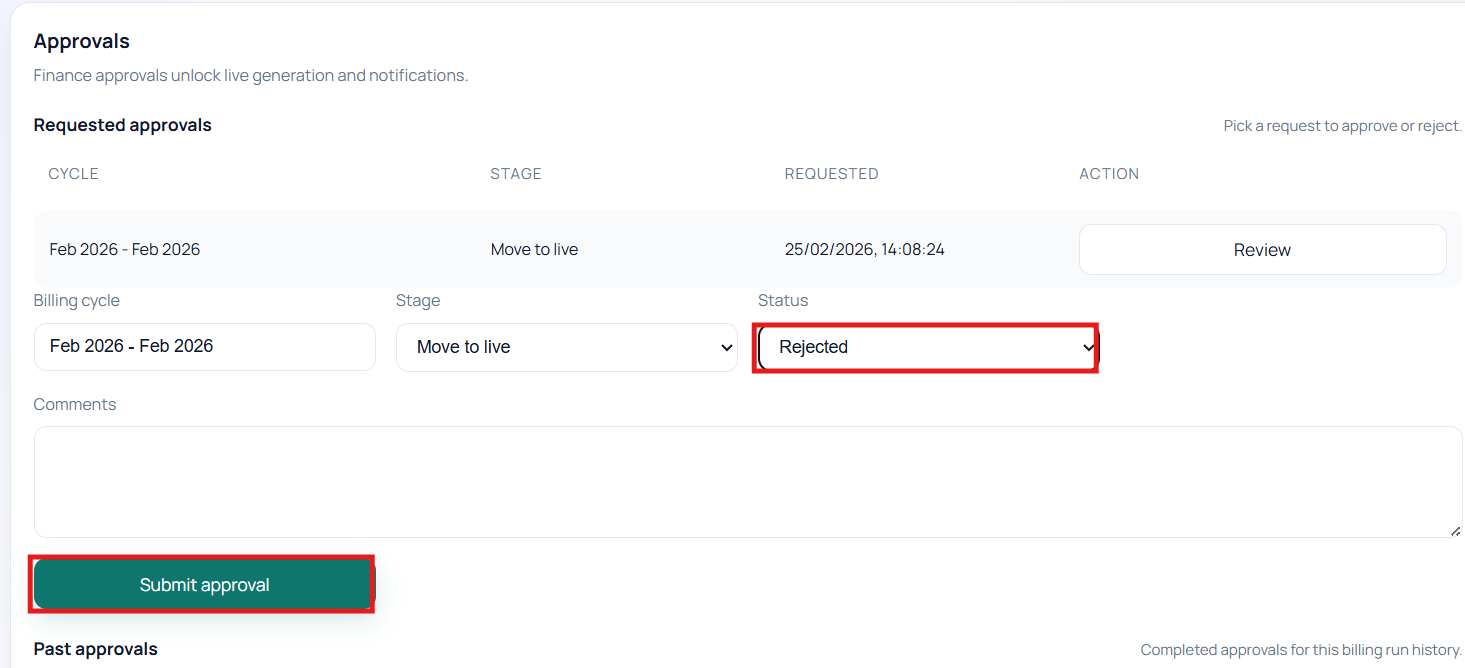
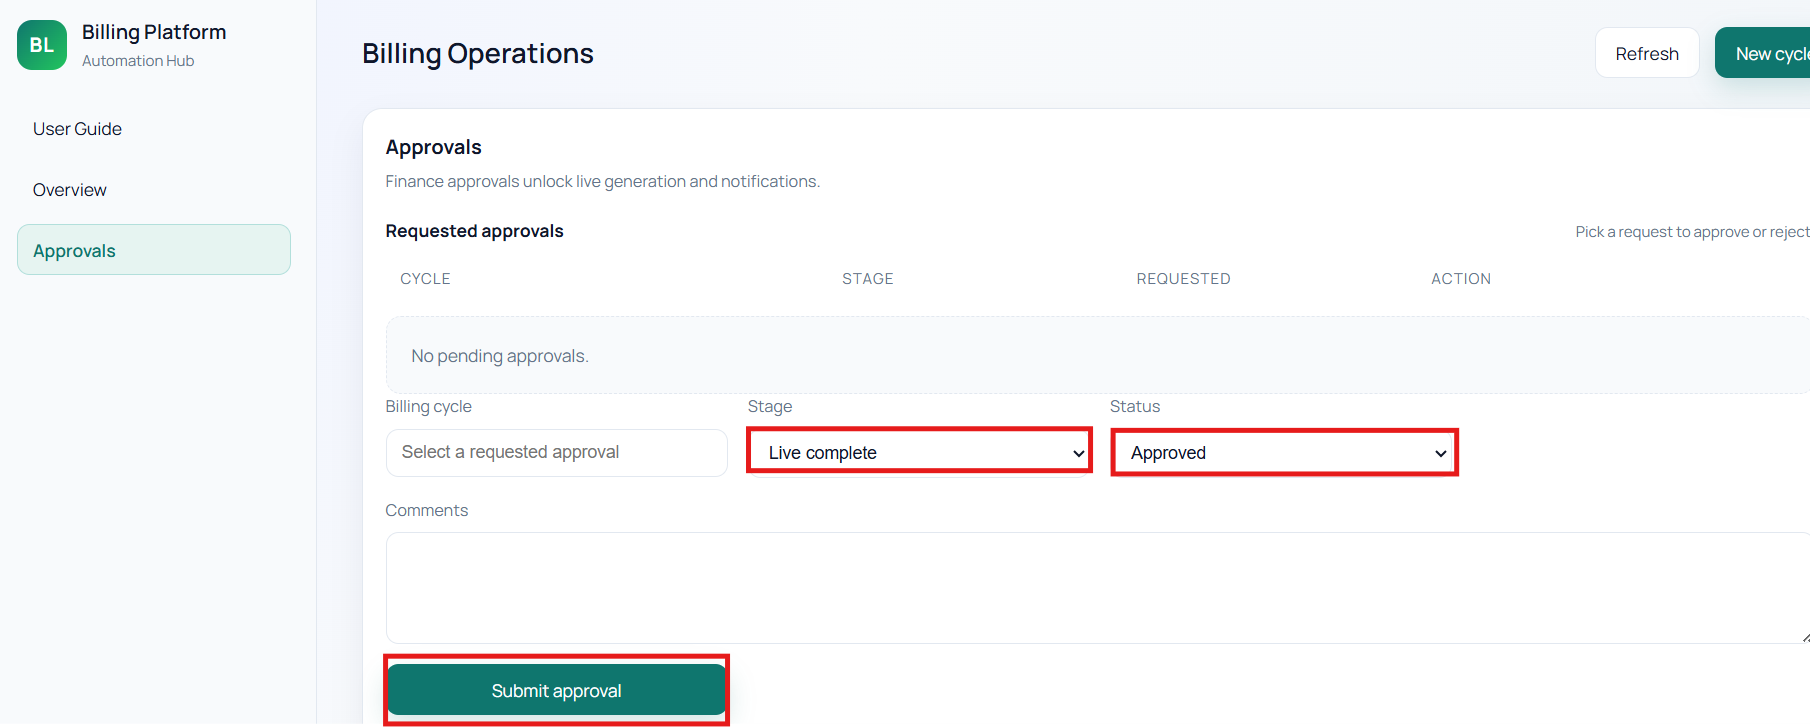
docs: improve finance approval guide visuals

diff --git a/docs/platform/finance_user_guide.md b/docs/platform/finance_user_guide.md
@@ -5,6 +5,7 @@ This guide focuses only on the finance steps in the billing process. It explains
 ---
 
 ## Your role in the process
+
 - You **review and approve** key billing stages.
 - Your approval unlocks the next step for billing.
 - You **do not** run scripts or notifications.
@@ -12,7 +13,9 @@ This guide focuses only on the finance steps in the billing process. It explains
 ---
 
 ## When you get involved
+
 Finance actions happen at these points:
+
 1. **Move to live** approval (after test runs complete).
 2. **Live complete** approval (after live runs complete).
 3. **Move to notifications** approval (after post‑live checks, if required by policy).
@@ -22,44 +25,61 @@ Finance actions happen at these points:
 ## Step-by-step (Finance)
 
 ### Step 1: Review “Move to live” request
+
 **Where:** `Approvals`
 
+![Step 1: Stage Change and Request Approval](/billing/user-guide/finance-approvals.png)
+
 What you do:
+
 - Open the request for the billing cycle.
 - Read the comments and verify test results are complete.
 - Click **Approve** or **Reject**.
 
 What should happen next:
+
 - If approved, billing can generate **live** scripts.
 - If rejected, billing must correct issues and resubmit.
 
 ---
 
 ### Step 2: Review “Live complete” request
+
 **Where:** `Approvals`
 
+![Step 2: Stage Change and Request Approval](/billing/user-guide/finance-approvals-live.png)
+
 What you do:
+
 - Confirm live billing run and printing completed.
 - Click **Approve** or **Reject**.
 
 What should happen next:
+
 - If approved, billing can move to notifications.
 
 ---
 
 ### Step 3: Review “Move to notifications” request (if required)
+
 **Where:** `Approvals`
 
+![Step 3: Stage Change and Request Approval](/billing/user-guide/finance-move-to-notifications
+.png)
+
 What you do:
+
 - Confirm post‑live checks are completed.
 - Click **Approve** or **Reject**.
 
 What should happen next:
+
 - If approved, billing can generate and run notification commands.
 
 ---
 
 ## How to decide quickly (non‑technical checklist)
+
 - Are the test or live steps marked **complete** by billing?
 - Are there any comments indicating errors or missing data?
 - If unsure, **reject with a clear comment** so billing knows what to fix.
@@ -67,13 +87,16 @@ What should happen next:
 ---
 
 ## Common finance actions
+
 - **Approve** when results are complete and consistent.
 - **Reject** when results are missing, unclear, or failed.
 
 ---
 
 ## If you reject a request
+
 Add a short note like:
+
 - “Test run missing for Cycle X”
 - “Live printing not confirmed”
 - “Please attach reconciliation details”
